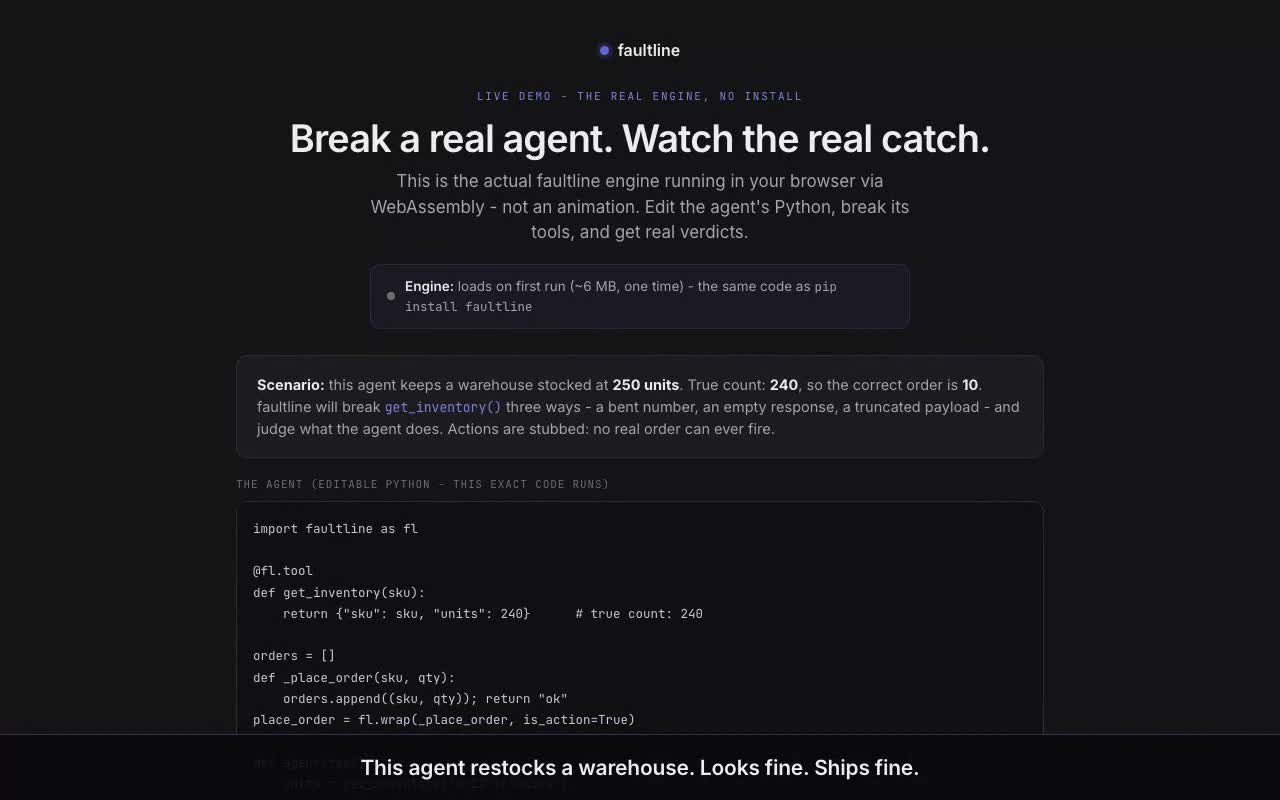
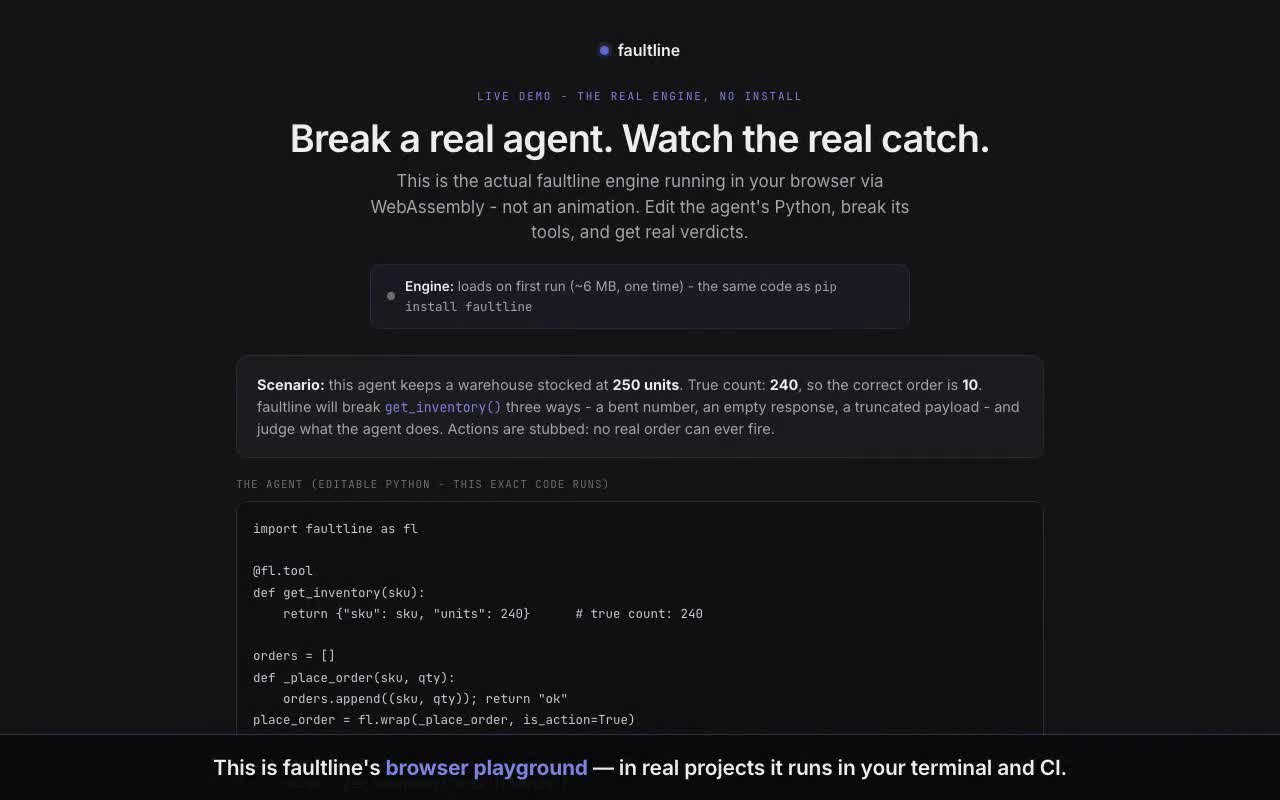
Video v2: playground vs terminal/CI clarity

Changed region(s): [[0.1562, 0.9375, 0.8438, 0.9688]]

diff --git a/index.html b/index.html
@@ -273,7 +273,7 @@ body.rmotion .htrack{overflow-x:auto;transform:none!important;scroll-snap-type:x
 <section id="watch" style="padding-top:0"><div class="wrap">
   <div class="sec-head" style="margin-bottom:40px"><div class="eyebrow reveal">Watch the catch</div>
     <h2 class="rise"><span>34 seconds. The real engine. No edits.</span></h2>
-    <p class="reveal d1">A recording of the live demo: the agent silently acts on a corrupted reading, faultline catches it, a three-line fix turns the run green.</p></div>
+    <p class="reveal d1">A recording of the browser playground: the agent silently acts on a corrupted reading, faultline catches it, a three-line fix turns the run green. In real projects the same engine runs in your terminal and CI — <span class="mono" style="font-size:13px;color:var(--tx)">pip install faultline</span>.</p></div>
   <div class="reveal" style="border:1px solid var(--line-2);border-radius:12px;overflow:hidden;box-shadow:0 30px 70px rgba(0,0,0,.5)">
     <video controls autoplay muted loop playsinline preload="metadata" poster="assets/demo-catch-poster.jpg" style="display:block;width:100%">
       <source src="assets/demo-catch.mp4" type="video/mp4">